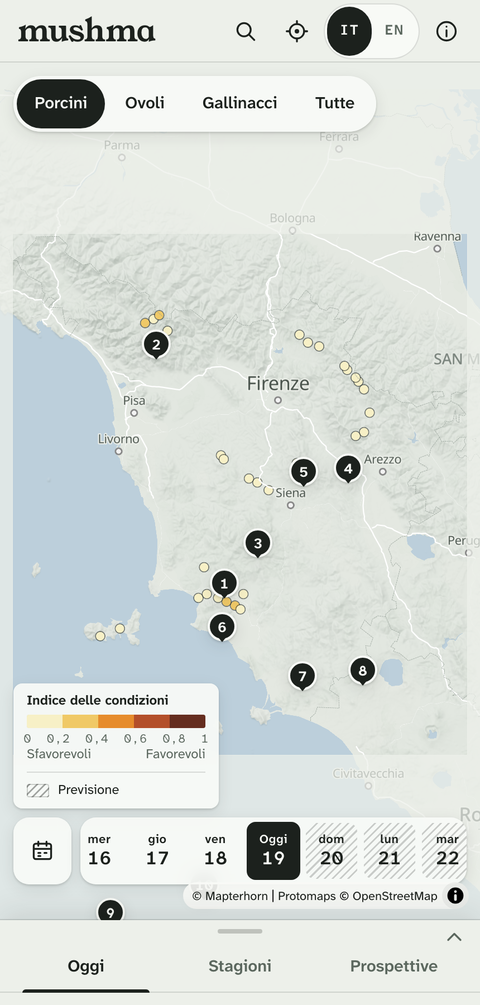
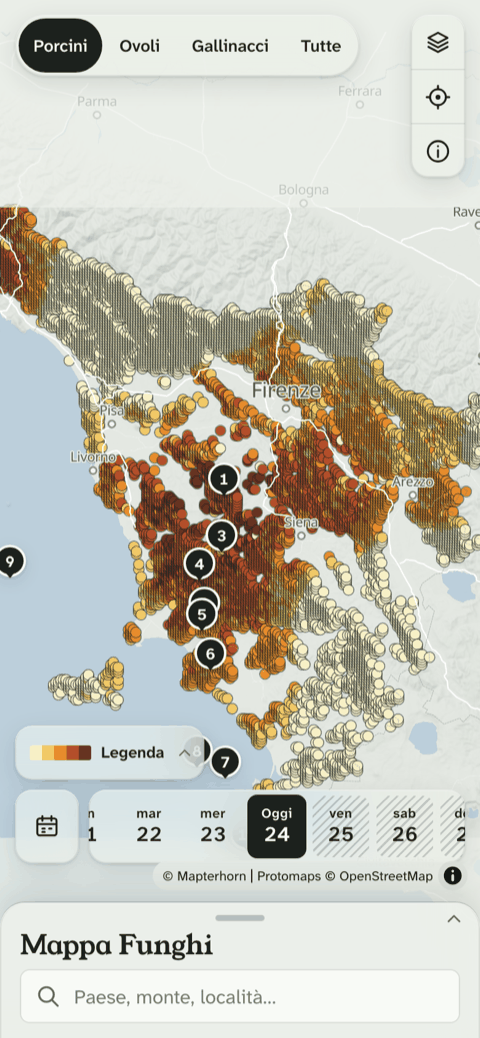
docs(readme): link the live app and cover this week's features
The README now opens with a link to mappafunghi.app and the app's public
name, Mappa Funghi. It describes what shipped since its last pass:

- analysis mode
- the glass phone shell, the folding desktop card and the ⓘ menu
- plain-words texts
- region and species URLs with prerendered SEO files and llms.txt
- consent-gated Umami
- porcini's 30-day rain scored against the cell's own normal

The validation section no longer calls the rain tuning an open card. It
gives the result: porcini adopted and confirmed on the hold-out, ovoli
not shipped. It also names the open habitat-baseline gap.

The screenshots are new, from the current shell: the map, a spot
forecast and analysis mode. The map and analysis shots come from the
live site. The spot shot comes from the local stack pinned to 20
September, because production's spot route was failing at the time.
They are quantised to 256 colours, about 500 KB for all three.

diff --git a/README.md b/README.md
@@ -1,5 +1,8 @@
 # mushma
 
+**Live at [mappafunghi.app](https://mappafunghi.app)**, where the app goes by
+*Mappa Funghi*.
+
 Estimates where and when wild edible mushrooms (porcini, ovoli, gallinacci)
 are likely to be fruiting in **Tuscany**, from transparent per-species rules
 over weather, habitat and terrain, validated against public sightings. Built
@@ -10,9 +13,9 @@ and "why this score" transparency matter as much as the map itself. See
 mushma never identifies mushrooms or says one is safe to eat — it forecasts
 *conditions* only.
 
-| | |
-|---|---|
-| ![The conditions map: a species switcher, a date strip from six days ago to a week ahead, and scored woodland areas](.github/assets/map.png) | ![A spot forecast: one place's score per species, today and the next 7 days, as a bar per day](.github/assets/spot.png) |
+| | | |
+|---|---|---|
+| ![The conditions map on a phone: a species switcher, glass map controls, a date strip from six days ago to a week ahead, and scored woodland cells with numbered hot places](.github/assets/map.png) | ![A spot forecast: one place's score per species, today and the next 7 days, as a bar per day](.github/assets/spot.png) | ![Analysis mode: the rain factors behind the porcini score drawn as their own map layers, with factor chips and a play button over the date strip](.github/assets/analysis.png) |
 
 ## How it works
 
@@ -33,11 +36,13 @@ one YAML file per species, every threshold and window carrying a cited
 source. Weather comes from Open-Meteo (ERA5-Land reanalysis history, ECMWF
 IFS forecast), downscaled from a coarse model grid to each cell by elevation.
 Reanalysis rain is scaled up with elevation before scoring, because it runs dry
-in the hills against Tuscany's rain gauges. Each species carries a growth
-clock: warm, humid days after a rain bring the flush forward and cold or dry
-ones hold it back, so the rain lag is counted in growth days rather than
-calendar days. And every cell's temperatures and drying are shifted by how much
-sun its slope and aspect get compared with flat ground.
+in the hills against Tuscany's rain gauges. Porcini's 30-day rain is scored
+against the cell's own normal for the time of year, so an ordinary month no
+longer earns full credit. Each species carries a growth clock: warm, humid
+days after a rain bring the flush forward and cold or dry ones hold it back,
+so the rain lag is counted in growth days rather than calendar days. And every
+cell's temperatures and drying are shifted by how much sun its slope and
+aspect get compared with flat ground.
 Habitat, altitude and soil come from a static grid built once from Regione
 Toscana, ISPRA, Copernicus and SoilGrids sources (see
 [Credits](#credits--sources) below and the app's own Data and credits page).
@@ -52,7 +57,10 @@ In the app, that becomes three views:
   breakdown. A floating button centres the map on your position without
   opening a spot. The hot places list ranks clusters of high-scoring cells,
   labelled by comune and nearest named place, with recent public sightings per
-  cell.
+  cell. **Analysis mode** (the layers button) swaps the score colours for the
+  factors behind them: each factor in the species' rules is a chip, each chip
+  that is on draws its own layer with the factor's 0–1 value as opacity, and a
+  play button steps through the date strip's 14 days.
 - **Seasons.** Every stored season for Tuscany or one comune — good days, rain
   and temperature against normal, sightings — compared with each other and
   replayed on the map day by day, plus which species the area's woodland can
@@ -62,7 +70,18 @@ In the app, that becomes three views:
 
 It is an installable PWA that caches the latest forecast for the woods, shows
 when the data was last updated and warns when today's numbers are not in yet,
-runs in Italian and English, and credits every source on its own page.
+runs in Italian and English, and credits every source on its own page. On a
+phone the map fills the screen, with glass controls over it and a bottom sheet
+for search, spots and the other views. On a desktop the panel is a floating
+card that folds away. The ⓘ menu holds the disclaimer, credits, terms, privacy,
+cookie preferences, the code on GitHub and the language switch. The texts
+explain scores in plain words, not model jargon.
+
+Every region and species has its own URL (`/toscana`, `/toscana/porcini`,
+`/toscana/ovoli`, `/toscana/gallinacci`; `/` redirects to `/toscana`). Each is
+prerendered with its own title, description, link-preview card and JSON-LD, and
+an `llms.txt` briefs LLMs on what the site is and is not. Analytics are
+self-hosted Umami, off until you accept cookies, and never see a location.
 
 ## Validation
 
@@ -75,19 +94,31 @@ weather rules have to beat are in
 
 Train/hold-out seasons and the backtest method were frozen **before any score
 was compared against a sighting** (2016–2023 train, 2024–2025 hold-out,
-2026 reported once it ends). Tuning against the train seasons and the final
-hold-out numbers are still in progress as of this write-up — that document is
-the live source of truth; this section will carry its headline numbers once
-they land.
+2026 reported once it ends). The hold-out has been used once so far, to judge
+the rain-driver tuning below. The full tuned-model results are still to come,
+and that document is the live source of truth for them.
 
-Two findings so far, both written up there. The rain drivers reach full credit
-in an ordinary September (one ~30 mm event ten days earlier plus ~80 mm in a
-month), so they cannot yet tell a good year from an average one; tuning them
-on the train seasons is an open card. And the growth clock with the terrain
-factors moves porcini's effort-weighted timing AUC on the train seasons from
-0.56 to 0.62, the first porcini interval clear of chance — though with 16–23
-sightings per species none of the differences is outside its bootstrap
-interval, so they stay on as priors, not results.
+Findings so far, all written up there:
+
+- **Growth clock and terrain.** Together they move porcini's effort-weighted
+  timing AUC on the train seasons from 0.56 to 0.62. That is the first porcini
+  interval clear of chance.
+- **Rain drivers.** They reached full credit in an ordinary September (one
+  ~30 mm event ten days earlier plus ~80 mm in a month), so they could not tell
+  a good year from an average one. A search written down before any train
+  season was scored kept one change: porcini's 30-day rain is now scored as a
+  share of the cell's own normal (nothing at 50 %, full credit from 125 %). It
+  held on the 2024–2025 hold-out: porcini's timing AUC went from 0.58 to 0.60.
+  On a saturated mid-September day, the share of woodland cells where that
+  factor gives full credit fell from 77 % to 18 %. A doubled ovoli rain trigger
+  won on the train seasons but lost on the hold-out, so it was not shipped.
+- **Still open.** Within 20 km on a given day, habitat alone ranks the finder's
+  cell higher than the full model does, in every group. So the weather and
+  terrain lines don't yet help pick the exact spot; that is for a later card.
+
+There are 16–23 sightings per species in the train seasons and 6–19 in the
+hold-out. At those numbers, no model change's gain is outside its bootstrap
+interval, so the changes stay on as priors, not results.
 
 ## Layout
 
@@ -120,7 +151,8 @@ pnpm test            # Vitest (unit + components, includes the i18n missing-key 
 pnpm run test:e2e    # Playwright smoke test: map → spot → why (starts the fixture API itself)
 pnpm run lint        # ESLint (also rejects hardcoded UI strings)
 pnpm run format:check
-pnpm run build       # type-check + production build
+pnpm run build       # type-check + production build, with the prerendered SEO files
+pnpm run generate:og # re-render the link-preview cards in public/og/ (commit them)
 pnpm run perf        # first-map-paint check on a throttled phone profile (local only)
 pnpm run tunnel      # dev server + a public URL for it (see Tunnel below)
 ```
@@ -165,9 +197,17 @@ The dev server serves them at `/basemap/`. Without them, leave
 `VITE_BASEMAP_URL` and `VITE_TERRAIN_URL` empty and the map draws a plain land
 fill. `pnpm run test:e2e` always runs that way.
 
-`.gavin-root/docs/visual-direction.md` has the palette, the score colour scale
-and the type choices. `.gavin-root/docs/perf-first-map-paint.md` has the
-performance method and results.
+**SEO.** `pnpm run build` writes one prerendered HTML per route in
+`src/routes.ts`, with its own title, description, canonical, Open Graph tags,
+JSON-LD and intro text (`src/seo/`). It also writes `sitemap.xml`,
+`robots.txt`, `llms.txt` and a noindex `404.html`. The client keeps the head in
+step as you navigate. The one-time Search Console and Bing setup is under
+Deploying below.
+
+`.gavin-root/docs/visual-direction.md` has the palette, the score colour scale,
+the analysis-mode factor colours, the glass surfaces and the type choices.
+`.gavin-root/docs/perf-first-map-paint.md` has the performance method and
+results.
 
 `web/src/api/schema.ts` is a TypeScript client generated from `api/openapi.json`
 (the API's contract). After changing any `api/` route or response model, run
@@ -273,7 +313,9 @@ rescale (reanalysis rain × 1.28 + 0.29 per km of elevation, fitted to the SIR T
 terrain microclimate (each cell's temperatures and ET0 shifted by its clear-sky sun ratio, computed
 from slope and aspect in `api.model.terrain`) and the frozen backtest split. Each species file adds
 its growth clock: a cardinal-temperature curve on topsoil temperature, slowed by dry air, that
-counts the rain lag in growth days instead of calendar days.
+counts the rain lag in growth days instead of calendar days. A rain window can also be scored as a
+percentage of the cell's own daily normal (`percent_of_normal`); porcini's `rain_30d` is, so
+scoring refuses to start until the normals are built (see Time views below).
 
 ```sh
 cd api
@@ -351,7 +393,8 @@ GitHub Actions (`.github/workflows/ci.yml`) lints and tests both `web/` and
 
 ## Deploying
 
-Production is **mappafunghi.app**. Everything runs on free tiers except the API server:
+Production is **[mappafunghi.app](https://mappafunghi.app)**. Everything runs on free tiers except
+the API server:
 
 | Piece | Where | Cost |
 |---|---|---|
